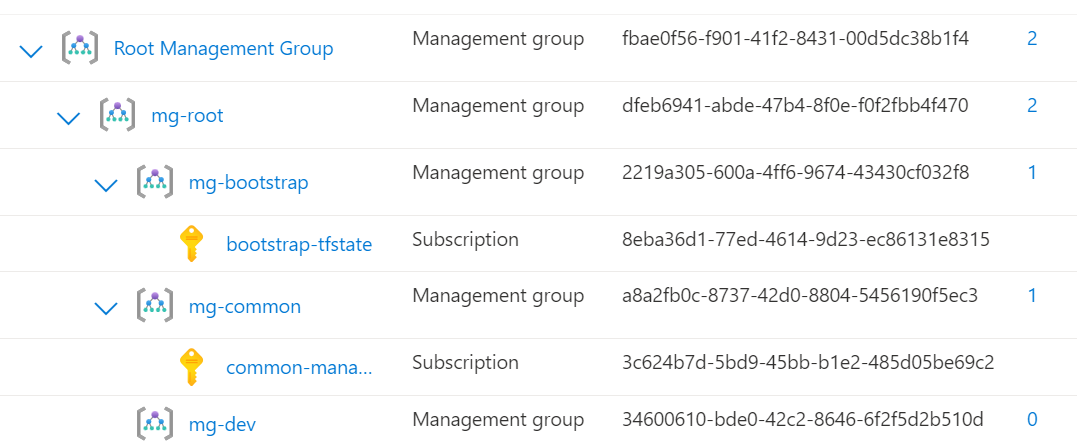
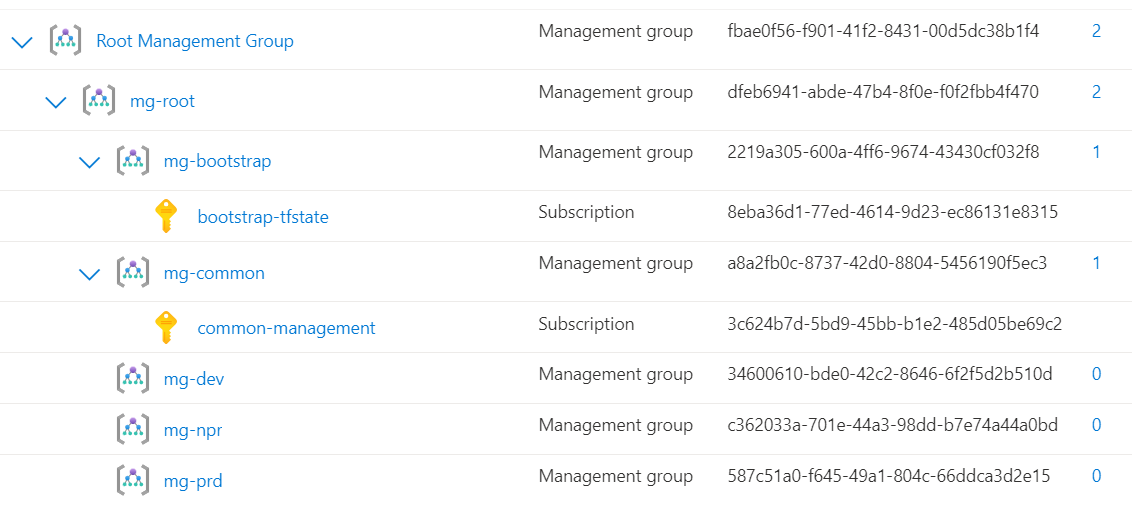
added npr and prd mg

diff --git a/README.md b/README.md
@@ -1,5 +1,5 @@
 # azure-foundation
 
-### Org hierarchy [developing...]
+Org hierarchy [developing...]
 
 ![Alt text](images/image.png)
